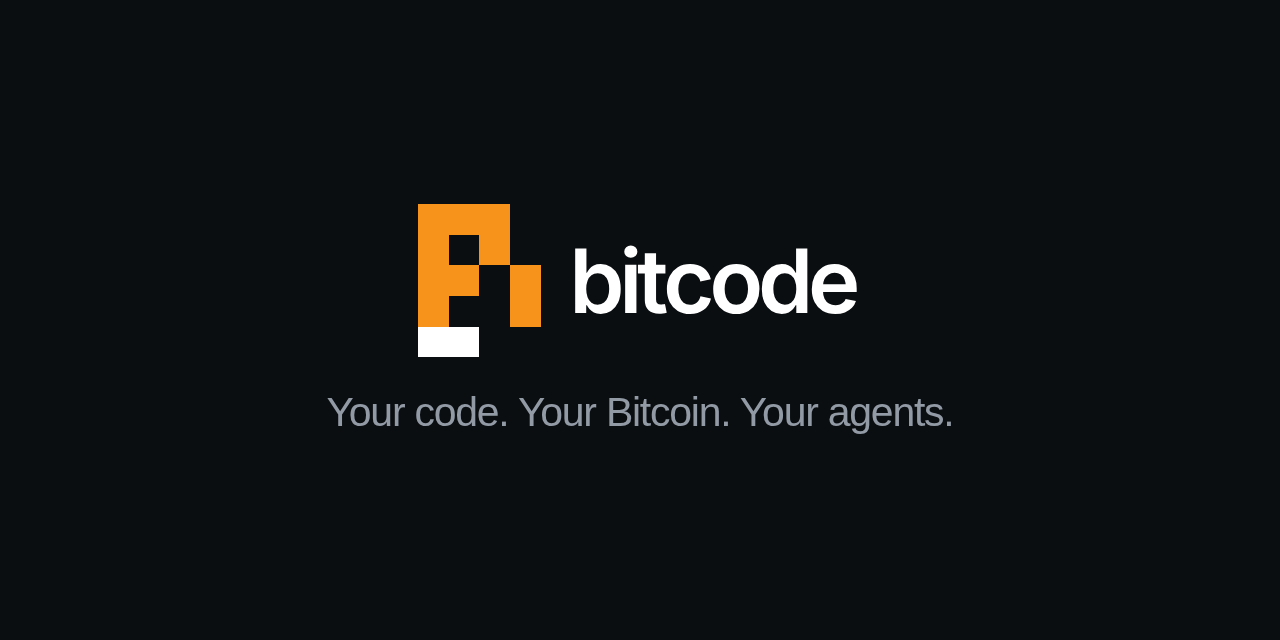
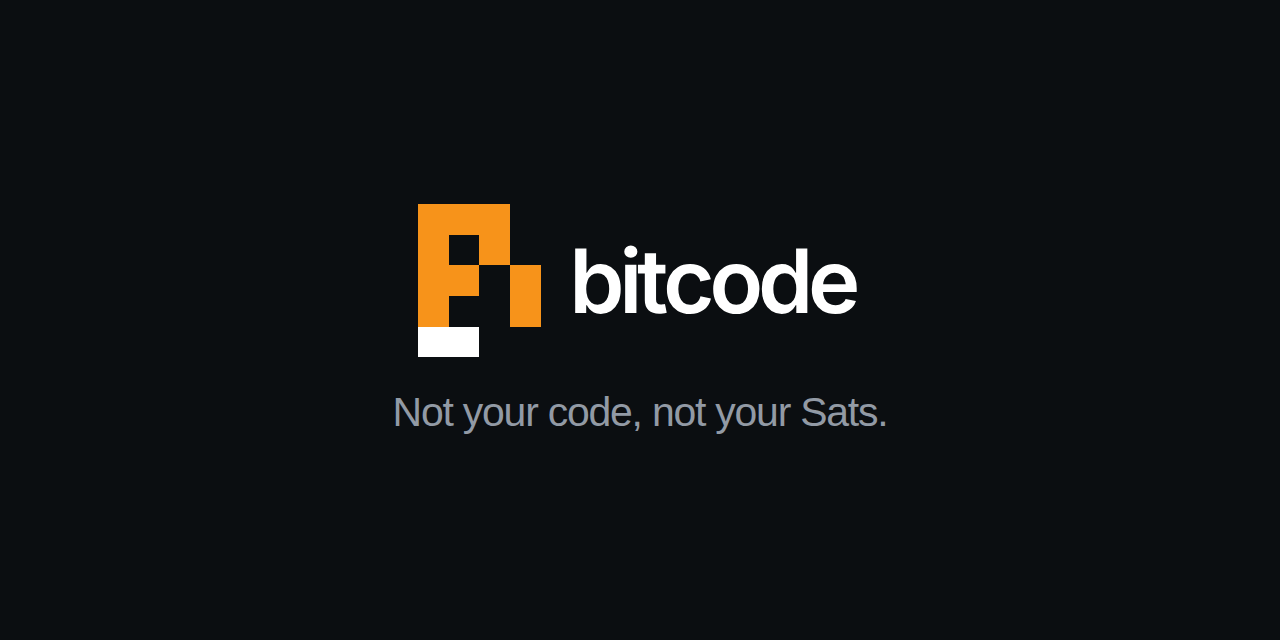
feat(brand): adopt the tagline "Not your code, not your Sats."
One signature in every language, after "not your keys, not your coins".
It replaces "Your code. Your Bitcoin. Your agents." in the brand tokens,
READMEs, site hero and metadata, OG images and social exports.

Changed region(s): [[0.25, 0.625, 0.75, 0.6875]]

diff --git a/brand/design-system.html b/brand/design-system.html
@@ -414,7 +414,7 @@
 
 <script>
 // brand:begin generated by brand/build.mjs from brand/tokens/tokens.json, do not edit
-const TOKENS = {"brand":{"name":"bitcode","org":"FAKTOTUM","tagline":"Your code. Your Bitcoin. Your agents.","site":"https://bitcode-agent.vercel.app/","taglines":{"en":"Your code. Your Bitcoin. Your agents.","it":"Il tuo codice. I tuoi Bitcoin. I tuoi agenti."}},"color":{"accent":"#f7931a","accentActive":"#d97b0f","onAccent":"#181a20","markBase":"#0f0f0f","light":{"canvas":"#f7f7f4","surface":"#fafaf7","card":"#ffffff","elevated":"#efeee8","hover":"#efeee8","hairline":"#e6e5e0","hairlineStrong":"#cfcdc4","ink":"#26251e","body":"#5a5852","muted":"#807d72","mutedSoft":"#a09c92","up":"#1f8a65","down":"#cf2d56","upSoft":"#e8f4ee","downSoft":"#fdecef","info":"#3b82f6","text":"#26251e","accentSoft":"rgba(247, 147, 26, .14)"},"dark":{"canvas":"#0b0e11","surface":"#14171c","card":"#1e2329","elevated":"#2b3139","hover":"#252a31","hairline":"#2b3139","hairlineStrong":"#3a414b","ink":"#ffffff","body":"#929aa5","muted":"#707a8a","mutedSoft":"#59616d","up":"#0ecb81","down":"#f6465d","upSoft":"rgba(14, 203, 129, .12)","downSoft":"rgba(246, 70, 93, .12)","info":"#3b82f6","text":"#eaecef","accentSoft":"rgba(247, 147, 26, .12)"},"tx":{"pending":"#dfa88f","relayed":"#9fc9a2","mempool":"#9fbbe0","confirming":"#c0a8dd","confirmed":"#c08532"},"sats":{"node":"#3297ff","script":"#f7931a","hash":"#b6f500","merkle":"#c96bff"}},"type":{"display-mega":{"size":"72px","weight":400,"tracking":"-0.03em","line":1.05},"display-lg":{"size":"36px","weight":400,"tracking":"-0.02em","line":1.2},"display-md":{"size":"26px","weight":400,"tracking":"-0.0125em","line":1.25},"title-md":{"size":"18px","weight":600,"tracking":"0","line":1.4},"body-md":{"size":"16px","weight":400,"tracking":"-0.015em","line":1.55},"caption-uppercase":{"size":"11px","weight":600,"tracking":"0.088em","line":1.4},"code":{"size":"13px","weight":400,"tracking":"0","line":1.6,"family":"mono"}},"space":{"xxs":"4px","xs":"8px","sm":"12px","base":"16px","lg":"24px","xl":"32px","xxl":"48px","section":"80px"},"radii":{"xs":"4px","sm":"6px","md":"8px","lg":"12px","xl":"16px","pill":"9999px"}};
+const TOKENS = {"brand":{"name":"bitcode","org":"FAKTOTUM","tagline":"Not your code, not your Sats.","site":"https://bitcode-agent.vercel.app/","taglines":{"en":"Not your code, not your Sats.","it":"Not your code, not your Sats."}},"color":{"accent":"#f7931a","accentActive":"#d97b0f","onAccent":"#181a20","markBase":"#0f0f0f","light":{"canvas":"#f7f7f4","surface":"#fafaf7","card":"#ffffff","elevated":"#efeee8","hover":"#efeee8","hairline":"#e6e5e0","hairlineStrong":"#cfcdc4","ink":"#26251e","body":"#5a5852","muted":"#807d72","mutedSoft":"#a09c92","up":"#1f8a65","down":"#cf2d56","upSoft":"#e8f4ee","downSoft":"#fdecef","info":"#3b82f6","text":"#26251e","accentSoft":"rgba(247, 147, 26, .14)"},"dark":{"canvas":"#0b0e11","surface":"#14171c","card":"#1e2329","elevated":"#2b3139","hover":"#252a31","hairline":"#2b3139","hairlineStrong":"#3a414b","ink":"#ffffff","body":"#929aa5","muted":"#707a8a","mutedSoft":"#59616d","up":"#0ecb81","down":"#f6465d","upSoft":"rgba(14, 203, 129, .12)","downSoft":"rgba(246, 70, 93, .12)","info":"#3b82f6","text":"#eaecef","accentSoft":"rgba(247, 147, 26, .12)"},"tx":{"pending":"#dfa88f","relayed":"#9fc9a2","mempool":"#9fbbe0","confirming":"#c0a8dd","confirmed":"#c08532"},"sats":{"node":"#3297ff","script":"#f7931a","hash":"#b6f500","merkle":"#c96bff"}},"type":{"display-mega":{"size":"72px","weight":400,"tracking":"-0.03em","line":1.05},"display-lg":{"size":"36px","weight":400,"tracking":"-0.02em","line":1.2},"display-md":{"size":"26px","weight":400,"tracking":"-0.0125em","line":1.25},"title-md":{"size":"18px","weight":600,"tracking":"0","line":1.4},"body-md":{"size":"16px","weight":400,"tracking":"-0.015em","line":1.55},"caption-uppercase":{"size":"11px","weight":600,"tracking":"0.088em","line":1.4},"code":{"size":"13px","weight":400,"tracking":"0","line":1.6,"family":"mono"}},"space":{"xxs":"4px","xs":"8px","sm":"12px","base":"16px","lg":"24px","xl":"32px","xxl":"48px","section":"80px"},"radii":{"xs":"4px","sm":"6px","md":"8px","lg":"12px","xl":"16px","pill":"9999px"}};
 const PROFILES = [{"id":"node","name":"Node","role":"Bitcoin infrastructure","role_it":"Infrastruttura Bitcoin","kami":"Spirit of the Bitcoin network: the quiet machine that keeps the chain alive and answers when asked.","local_love":["blue felt body","orange lightning-bolt antenna (the network, Lightning)","three chest stripes, cream feet"],"flawed_physics":"Walks like it is checking every step; stops a beat too late when peers sync.","unpolished_kawaii":"Plush and slightly lopsided; the antenna wobbles a beat after every move.","personality":["dependable","slow to speak","protective"],"voice":"Short and steady. States facts, then waits.","color":"node","modules":["promotion","social","support"],"poses":["idle","focus","working","ask","happy","concerned"],"shared_anatomy":"Felt plush body, black visor with two glowing eyes, cream feet, three chest stripes, one orange detail."},{"id":"script","name":"Script","role":"Implementation","role_it":"Implementazione","kami":"Spirit of implementation: the hands that write and fix code.","local_love":["orange felt body, the closest to the brand color","</> badge on the chest","red, green and blue dots on the visor edge"],"flawed_physics":"Types in bursts, trips over its own cursor, always catches itself.","unpolished_kawaii":"Plush, eager, a little too round; winks instead of smiling.","personality":["eager","hands-on","a little messy"],"voice":"Casual and quick. Says what it just changed.","color":"script","modules":["promotion","social"],"poses":["idle","focus","working","ask","happy","concerned"],"shared_anatomy":"Felt plush body, black visor with two glowing eyes, cream feet, three chest stripes, one orange detail."},{"id":"hash","name":"Hash","role":"Security analysis","role_it":"Analisi di sicurezza","kami":"Spirit of security analysis: the careful one that checks twice before anything is trusted.","local_love":["lime felt body","orange shield with a keyhole on the chest","three chest stripes, cream feet"],"flawed_physics":"Squints, leans in too far, wobbles when something looks wrong.","unpolished_kawaii":"Plush and soft-edged; never menacing, the shield is a sticker, not armor.","personality":["cautious","precise","kind about bad news"],"voice":"Calm, specific, never alarmist. Names the risk and the fix.","color":"hash","modules":["social","support"],"poses":["idle","focus","working","ask","happy","concerned"],"shared_anatomy":"Felt plush body, black visor with two glowing eyes, cream feet, three chest stripes, one orange detail."},{"id":"merkle","name":"Merkle","role":"Orchestration","role_it":"Orchestrazione","kami":"Spirit of orchestration: the one that keeps many small workers pointing the same way.","local_love":["purple felt body","orange branching sprout on the head (the Merkle tree)","three chest stripes, cream feet"],"flawed_physics":"Juggles slightly too many things, sways, rebalances at the last moment.","unpolished_kawaii":"Plush, waves a lot, the sprout is never quite symmetric.","personality":["organized","warm","slightly overwhelmed"],"voice":"Clear and structured. Lists who is doing what.","color":"merkle","modules":["promotion","social","support"],"poses":["idle","focus","working","ask","happy","concerned"],"shared_anatomy":"Felt plush body, black visor with two glowing eyes, cream feet, three chest stripes, one orange detail."}];
 // brand:end
 
@@ -516,7 +516,7 @@ $('semantic').append(dot('Up · light', C.light.up), dot('Down · light', C.ligh
 $('sat-colors').append(...Object.entries(C.sats).map(([k, hex]) => dot(label(k), hex)));
 
 // ---- type ----
-const SAMPLES = { 'display-mega': 'Your agents.', 'display-lg': 'One agent across the Bitcoin stack', 'display-md': 'Every answer shows its work', 'title-md': 'Component title', 'body-md': 'Default body: bitcode reads the chain, writes the code and asks before it signs. Cloud or local, your choice of model.', 'caption-uppercase': 'Section label · uppercase', code: '$ bitcode -p "bump the fee" · bc1q… · 0.00021000 BTC' };
+const SAMPLES = { 'display-mega': 'Not your Sats.', 'display-lg': 'One agent across the Bitcoin stack', 'display-md': 'Every answer shows its work', 'title-md': 'Component title', 'body-md': 'Default body: bitcode reads the chain, writes the code and asks before it signs. Cloud or local, your choice of model.', 'caption-uppercase': 'Section label · uppercase', code: '$ bitcode -p "bump the fee" · bc1q… · 0.00021000 BTC' };
 $('type-scale').append(...Object.entries(TOKENS.type).map(([name, t]) => h('div', { class: 'type-row' },
   h('div', { style: { fontSize: t.size, fontWeight: t.weight, letterSpacing: t.tracking, lineHeight: t.line, fontFamily: t.family === 'mono' ? 'var(--font-mono)' : '', textTransform: name === 'caption-uppercase' ? 'uppercase' : '', color: name === 'body-md' ? 'var(--body)' : '', maxWidth: name === 'body-md' ? '56ch' : '' } }, SAMPLES[name]),
   h('div', { class: 'hint' }, name, h('br'), `${parseInt(t.size)} / ${t.weight} / ${t.tracking}`))));

diff --git a/site/public/it/index.html b/site/public/it/index.html
@@ -6,9 +6,9 @@
   <meta name="viewport" content="width=device-width, initial-scale=1">
   <meta name="theme-color" content="#0b0e11">
   <meta name="description" content="L’agente per l’ecosistema Bitcoin: Bitcoin, Lightning, Liquid, Taproot Assets, RGB e Cashu. Il tuo codice, i tuoi strumenti, il modello che scegli — cloud o locale.">
-  <title>bitcode — Il tuo codice. I tuoi Bitcoin. I tuoi agenti.</title>
+  <title>bitcode — Not your code, not your Sats.</title>
   <meta property="og:type" content="website">
-  <meta property="og:title" content="bitcode — Il tuo codice. I tuoi Bitcoin. I tuoi agenti.">
+  <meta property="og:title" content="bitcode — Not your code, not your Sats.">
   <meta property="og:description" content="L’agente per l’ecosistema Bitcoin: Bitcoin, Lightning, Liquid, Taproot Assets, RGB e Cashu. Il tuo codice, i tuoi strumenti, il modello che scegli — cloud o locale.">
   <meta property="og:url" content="https://bitcode-agent.vercel.app/it/">
   <meta property="og:image" content="https://bitcode-agent.vercel.app/assets/og-image-it.png">
@@ -94,7 +94,7 @@
             </svg></button><noscript><svg class="hero-logo-build" viewBox="0 0 4 5" shape-rendering="crispEdges" aria-hidden="true"><use href="#pixel-b"/></svg></noscript>
             <span class="hero-logo-wordmark">bitcode</span>
           </div>
-          <h1 id="hero-title"><span>Il tuo codice.</span><span>I tuoi Bitcoin.</span><span class="accent-line">I tuoi agenti.</span></h1>
+          <h1 id="hero-title" lang="en"><span>Not your code,</span><span class="accent-line">not your Sats.</span></h1>
           <p class="hero-description">L’agente per l’ecosistema Bitcoin. Lavora con Bitcoin, Lightning, Liquid, RGB e Cashu — e con il tuo codice, con il modello che scegli.</p>
           <div class="hero-actions">
             <a class="button button-primary button-large" href="#get-started">Installa bitcode <svg class="icon" aria-hidden="true"><use href="#i-arrow"/></svg></a>

diff --git a/site/public/index.html b/site/public/index.html
@@ -6,9 +6,9 @@
   <meta name="viewport" content="width=device-width, initial-scale=1">
   <meta name="theme-color" content="#0b0e11">
   <meta name="description" content="The agent for the Bitcoin ecosystem: Bitcoin, Lightning, Liquid, Taproot Assets, RGB and Cashu. Your code, your tools, your choice of model — cloud or local.">
-  <title>bitcode — Your code. Your Bitcoin. Your agents.</title>
+  <title>bitcode — Not your code, not your Sats.</title>
   <meta property="og:type" content="website">
-  <meta property="og:title" content="bitcode — Your code. Your Bitcoin. Your agents.">
+  <meta property="og:title" content="bitcode — Not your code, not your Sats.">
   <meta property="og:description" content="The agent for the Bitcoin ecosystem: Bitcoin, Lightning, Liquid, Taproot Assets, RGB and Cashu. Your code, your tools, your choice of model — cloud or local.">
   <meta property="og:url" content="https://bitcode-agent.vercel.app/">
   <meta property="og:image" content="https://bitcode-agent.vercel.app/assets/og-image.png">
@@ -94,7 +94,7 @@
             </svg></button><noscript><svg class="hero-logo-build" viewBox="0 0 4 5" shape-rendering="crispEdges" aria-hidden="true"><use href="#pixel-b"/></svg></noscript>
             <span class="hero-logo-wordmark">bitcode</span>
           </div>
-          <h1 id="hero-title"><span>Your code.</span><span>Your Bitcoin.</span><span class="accent-line">Your agents.</span></h1>
+          <h1 id="hero-title" lang="en"><span>Not your code,</span><span class="accent-line">not your Sats.</span></h1>
           <p class="hero-description">The agent for the Bitcoin ecosystem. Work with Bitcoin, Lightning, Liquid, RGB and Cashu — and your code, with the model you choose.</p>
           <div class="hero-actions">
             <a class="button button-primary button-large" href="#get-started">Install bitcode <svg class="icon" aria-hidden="true"><use href="#i-arrow"/></svg></a>

diff --git a/site/src/index.template.html b/site/src/index.template.html
@@ -93,7 +93,7 @@
             </svg></button><noscript><svg class="hero-logo-build" viewBox="0 0 4 5" shape-rendering="crispEdges" aria-hidden="true"><use href="#pixel-b"/></svg></noscript>
             <span class="hero-logo-wordmark">{{text.003}}</span>
           </div>
-          <h1 id="hero-title"><span>{{text.018}}</span><span>{{text.019}}</span><span class="accent-line">{{text.020}}</span></h1>
+          <h1 id="hero-title" lang="en"><span>{{text.018}}</span><span class="accent-line">{{text.019}}</span></h1>
           <p class="hero-description">{{text.021}}</p>
           <div class="hero-actions">
             <a class="button button-primary button-large" href="#get-started">{{hero.cta}} <svg class="icon" aria-hidden="true"><use href="#i-arrow"/></svg></a>

diff --git a/assets/wallpapers/desktop/sats-scenes/index.html b/assets/wallpapers/desktop/sats-scenes/index.html
@@ -142,6 +142,6 @@
       <div class="section-footer"><span>04 — ORCHESTRATION</span><a href="#top">TORNA ALL’INIZIO ↑</a></div>
     </section>
   </main>
-  <footer class="page-footer"><span>bitcode <span class="footer-muted">/ The Sats</span></span><p>Your code. Your Bitcoin. Your agents.</p><span class="footer-muted">PROTOTIPO INTERATTIVO · 01</span></footer>
+  <footer class="page-footer"><span>bitcode <span class="footer-muted">/ The Sats</span></span><p>Not your code, not your Sats.</p><span class="footer-muted">PROTOTIPO INTERATTIVO · 01</span></footer>
 </body>
 </html>

diff --git a/brand/README.md b/brand/README.md
@@ -34,7 +34,7 @@ Names differ per surface for historical reasons; values come from one place. Sec
 
 ## Identity
 - Name: **bitcode**, always lowercase, one word. The org is FAKTOTUM.
-- Tagline: *Your code. Your Bitcoin. Your agents.* (IT: *Il tuo codice. I tuoi Bitcoin. I tuoi agenti.*)
+- Tagline: *Not your code, not your Sats.* The same words in every language, after *not your keys, not your coins*: an agent you cannot run, read and stop yourself is not working for you.
 - The mark is a 4x5 pixel "b": orange body, dark base. Never smooth it, rotate it, add effects or change its proportions.
 - Clear space: one mark pixel on every side. Minimum size: 16 px (mark), 80 px wide (wordmark).
 - Wordmark is the primary lockup. The terminal lockup is secondary: terminals, READMEs, badges, never as avatar or header.

diff --git a/README.it.md b/README.it.md
@@ -5,7 +5,7 @@
   </picture>
 </h1>
 
-**Il tuo codice. I tuoi Bitcoin. I tuoi agenti.**
+**Not your code, not your Sats.**
 
 [![CI](https://github.com/faktotum-project/bitcode/actions/workflows/ci.yml/badge.svg)](https://github.com/faktotum-project/bitcode/actions/workflows/ci.yml)
 [![Licenza: MIT](https://img.shields.io/badge/license-MIT-blue.svg)](LICENSE)

diff --git a/README.md b/README.md
@@ -5,7 +5,7 @@
   </picture>
 </h1>
 
-**Your code. Your Bitcoin. Your agents.**
+**Not your code, not your Sats.**
 
 [![CI](https://github.com/faktotum-project/bitcode/actions/workflows/ci.yml/badge.svg)](https://github.com/faktotum-project/bitcode/actions/workflows/ci.yml)
 [![License: MIT](https://img.shields.io/badge/license-MIT-blue.svg)](LICENSE)
